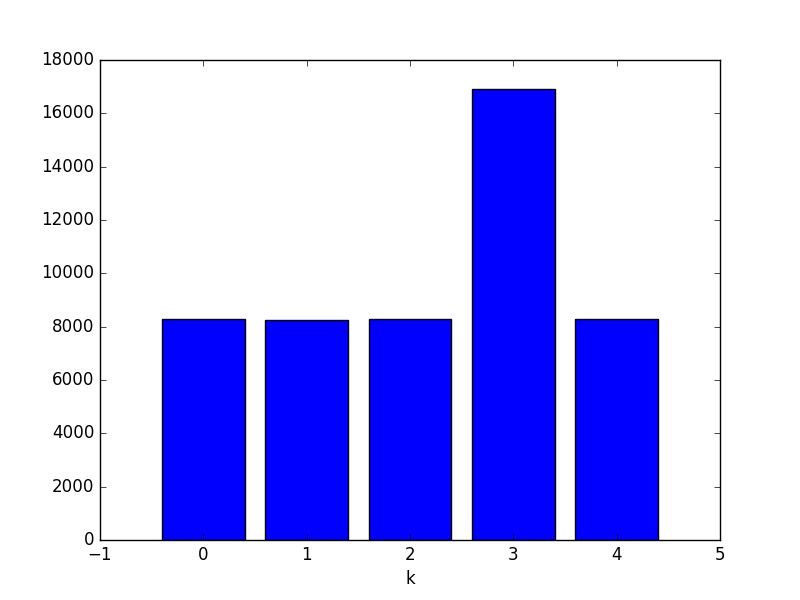
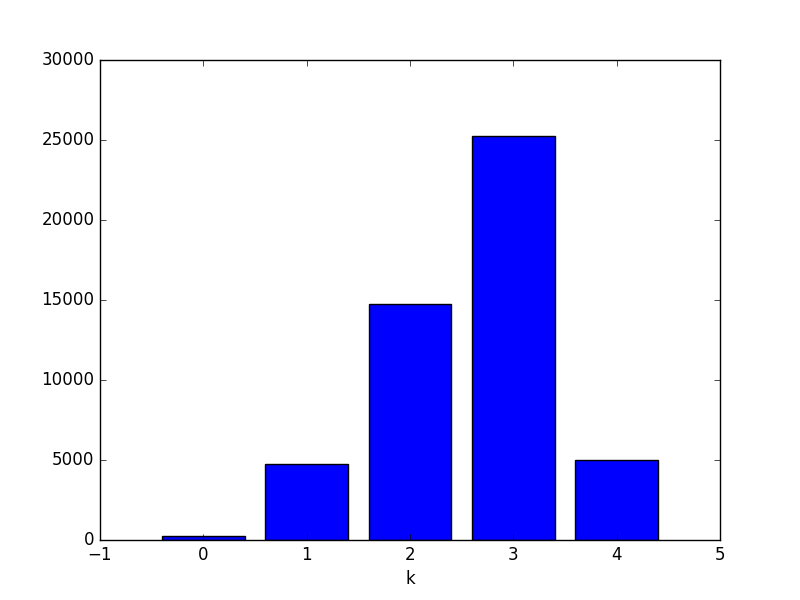
Add files via upload

diff --git a/reject_finite.py b/reject_finite.py
@@ -6,10 +6,11 @@ def reject_finite(Pi):
         K=len(Pi)
         while True:
                 k=nran(1, K)
-                Upsilon=random.choice([0, Pi_max])
+                Upsilon=random.uniform(0, Pi_max)
                 if Upsilon<=Pi[k-1]: return k-1
-## Example
+
 Z=[0.005, 0.095, 0.3, 0.5, 0.1]
+print(sum(Z))
 K=len(Z)
 l=[]
 
